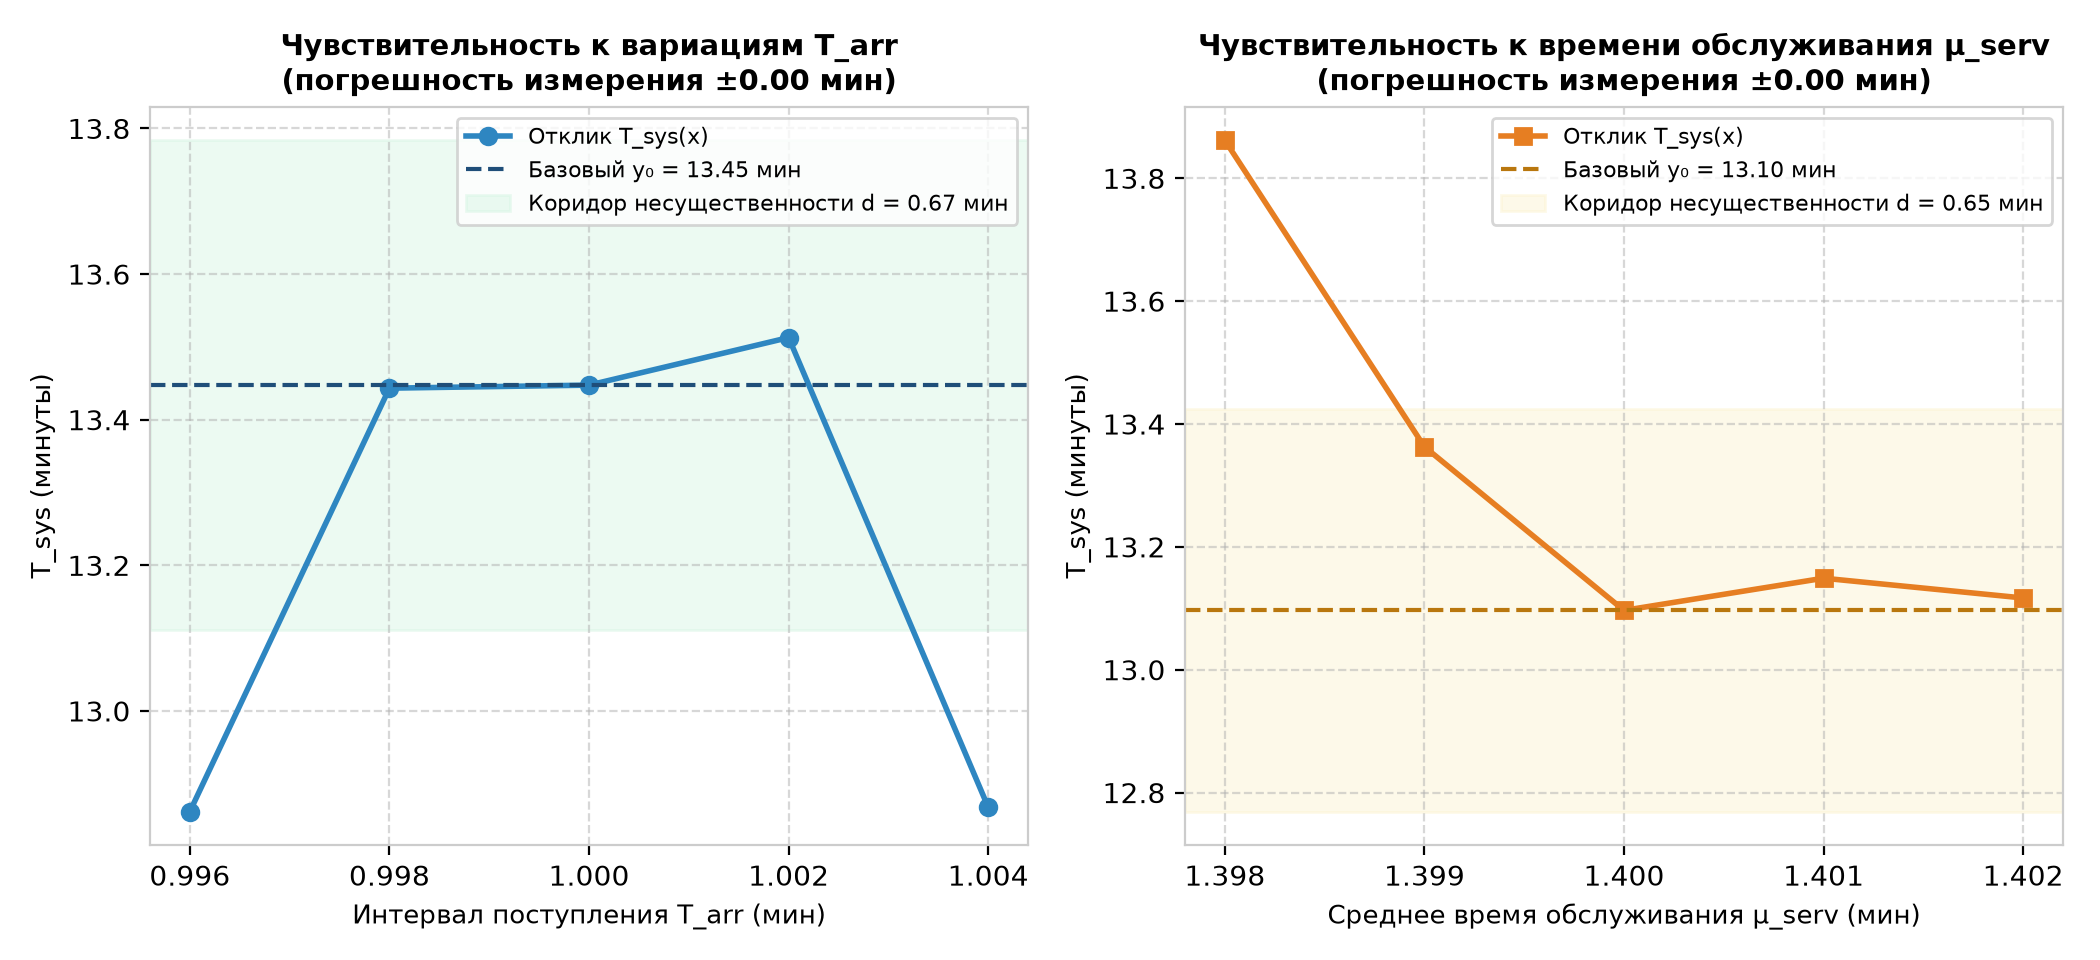
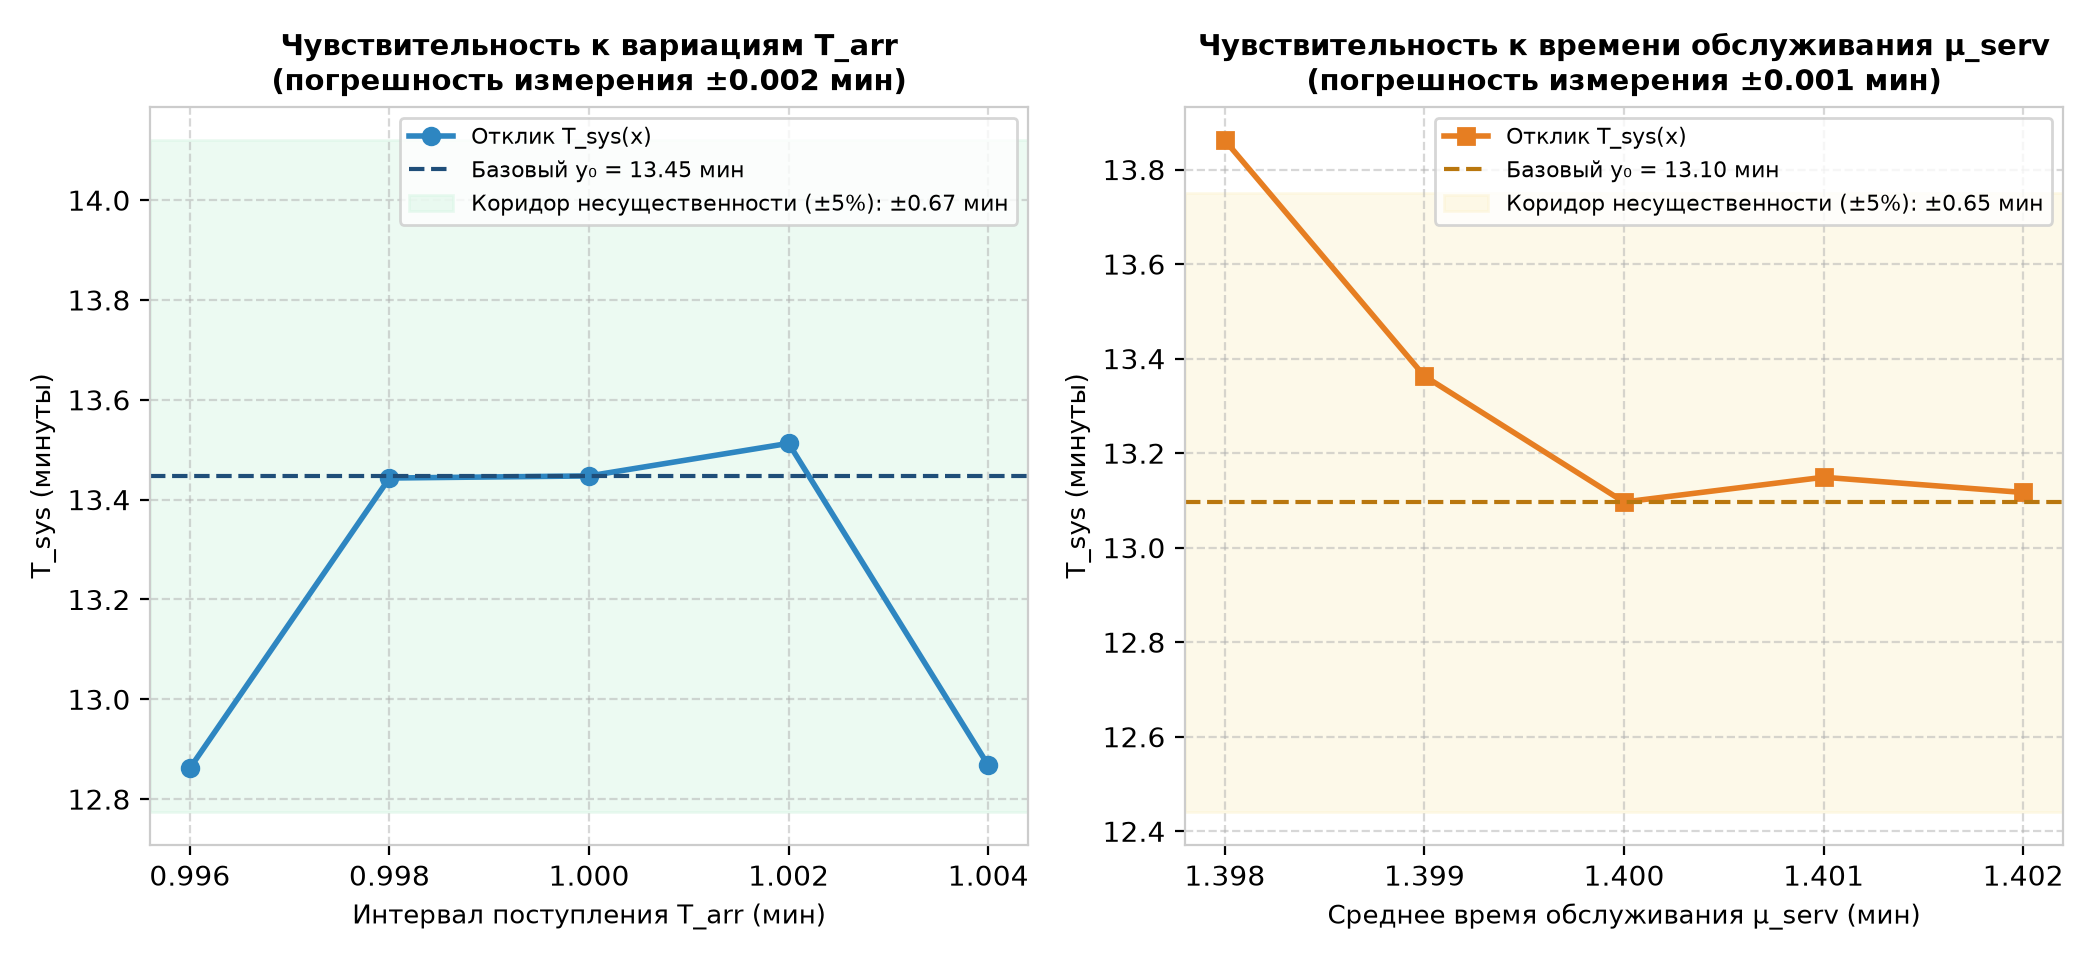
fix: plot 3.6

diff --git a/lab3/plotter.py b/lab3/plotter.py
@@ -384,10 +384,10 @@ def plot_task_1_6(
     # Subplot A: T_arr чувствительность
     ax1.plot(grid_arr, responses_arr, marker="o", color="#2E86C1", linewidth=2.0, label="Отклик T_sys(x)")
     ax1.axhline(y_base_arr, color="#1F4E79", linestyle="--", linewidth=1.5, label=f"Базовый y₀ = {y_base_arr:.2f} мин")
-    ax1.axhspan(y_base_arr - d_allow_arr / 2.0, y_base_arr + d_allow_arr / 2.0,
-                color="#D5F5E3", alpha=0.45, label=f"Коридор несущественности d = {d_allow_arr:.2f} мин")
+    ax1.axhspan(y_base_arr - d_allow_arr, y_base_arr + d_allow_arr,
+                color="#D5F5E3", alpha=0.45, label=f"Коридор несущественности (±5%): ±{d_allow_arr:.2f} мин")
 
-    ax1.set_title(f"Чувствительность к вариациям T_arr\n(погрешность измерения ±{dx_arr:.2f} мин)", fontsize=10.5, fontweight="bold")
+    ax1.set_title(f"Чувствительность к вариациям T_arr\n(погрешность измерения ±{dx_arr:.3f} мин)", fontsize=10.5, fontweight="bold")
     ax1.set_xlabel("Интервал поступления T_arr (мин)", fontsize=9.5)
     ax1.set_ylabel("T_sys (минуты)", fontsize=9.5)
     ax1.set_xticks(grid_arr)
@@ -397,10 +397,10 @@ def plot_task_1_6(
     # Subplot B: T_serv чувствительность
     ax2.plot(grid_serv, responses_serv, marker="s", color="#E67E22", linewidth=2.0, label="Отклик T_sys(x)")
     ax2.axhline(y_base_serv, color="#B9770E", linestyle="--", linewidth=1.5, label=f"Базовый y₀ = {y_base_serv:.2f} мин")
-    ax2.axhspan(y_base_serv - d_allow_serv / 2.0, y_base_serv + d_allow_serv / 2.0,
-                color="#FCF3CF", alpha=0.45, label=f"Коридор несущественности d = {d_allow_serv:.2f} мин")
+    ax2.axhspan(y_base_serv - d_allow_serv, y_base_serv + d_allow_serv,
+                color="#FCF3CF", alpha=0.45, label=f"Коридор несущественности (±5%): ±{d_allow_serv:.2f} мин")
 
-    ax2.set_title(f"Чувствительность к времени обслуживания μ_serv\n(погрешность измерения ±{dx_serv:.2f} мин)", fontsize=10.5, fontweight="bold")
+    ax2.set_title(f"Чувствительность к времени обслуживания μ_serv\n(погрешность измерения ±{dx_serv:.3f} мин)", fontsize=10.5, fontweight="bold")
     ax2.set_xlabel("Среднее время обслуживания μ_serv (мин)", fontsize=9.5)
     ax2.set_ylabel("T_sys (минуты)", fontsize=9.5)
     ax2.set_xticks(grid_serv)
